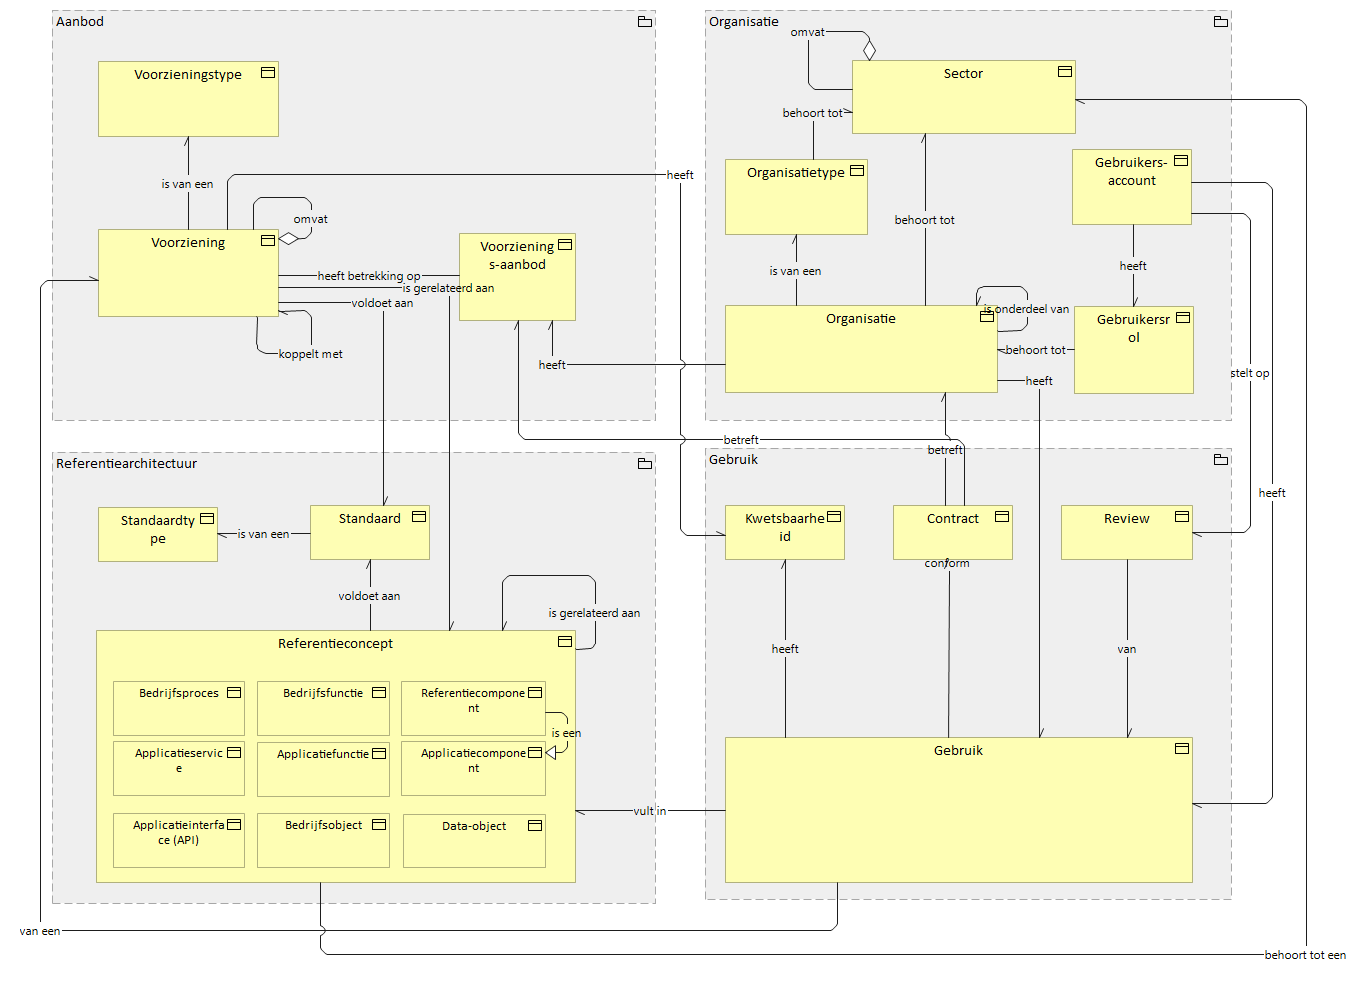
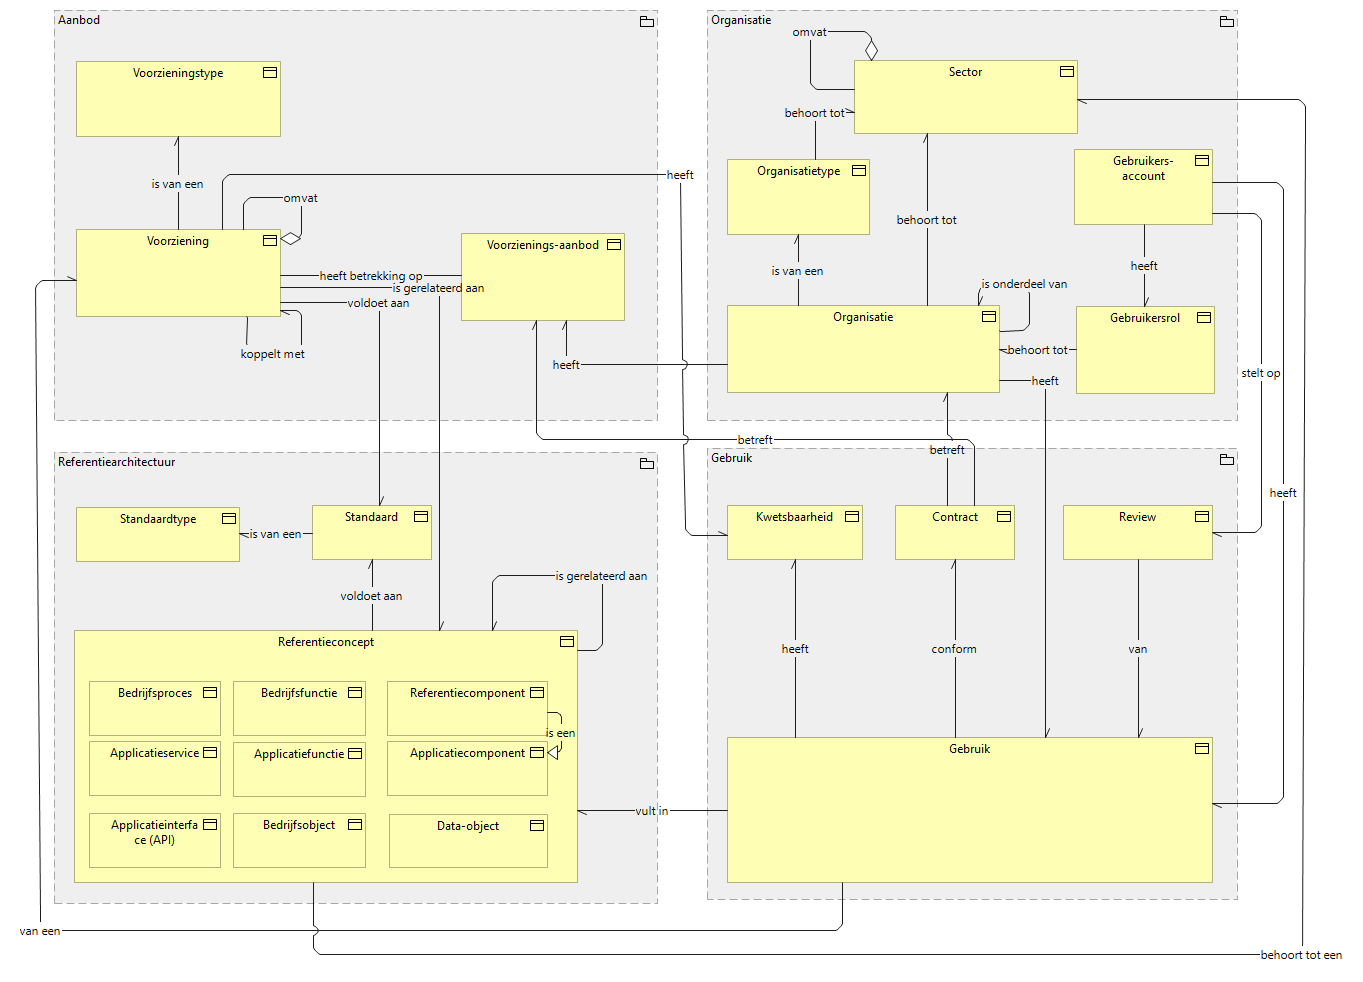
update: layout

diff --git a/docs/id-5af2e6f1-0ffa-403a-b8e5-1bf6153acfe1/views/EAID_F6824A49_9B51_42de_BD40_A47F3CEF7B26.html b/docs/id-5af2e6f1-0ffa-403a-b8e5-1bf6153acfe1/views/EAID_F6824A49_9B51_42de_BD40_A47F3CEF7B26.html
@@ -33,39 +33,39 @@
 		    <!-- If this is a digram model (has children and no bounds) show the image -->
 			   <img class="diagram" src="../images/EAID_F6824A49_9B51_42de_BD40_A47F3CEF7B26.png" alt="Bedrijfsobjectmodel" usemap="#EAID_F6824A49_9B51_42de_BD40_A47F3CEF7B26map"/>
 			   <map name="EAID_F6824A49_9B51_42de_BD40_A47F3CEF7B26map">
-				  				<area shape="rect" coords="98,507,218,562" href="../elements/EAID_2FECBF6E_20B9_406f_808A_571E63311271.html"  target="element">
-				  				<area shape="rect" coords="310,505,430,560" href="../elements/EAID_3DC2EF2E_CFEA_48cf_AE0E_130108252310.html"  target="element">
-				  						<area shape="rect" coords="403,814,546,868" href="../elements/EAID_65C4714E_EF67_4d93_A598_ABC76ABA50C2.html"  target="element">
-				  						<area shape="rect" coords="257,813,390,868" href="../elements/EAID_CBF07C0B_ADE4_4e67_8442_CDC13C116B3F.html"  target="element">
-				  						<area shape="rect" coords="113,813,245,868" href="../elements/EAID_BF5CCB61_C72B_4be3_BC36_387BB7F639BC.html"  target="element">
-				  						<area shape="rect" coords="401,741,546,796" href="../elements/EAID_65276D9B_0F60_4d7b_A286_8C1BD59B2CAA.html"  target="element">
-				  						<area shape="rect" coords="401,681,546,736" href="../elements/EAID_39B41497_A699_4f0b_A93C_B438EEE666C0.html"  target="element">
-				  						<area shape="rect" coords="257,742,390,797" href="../elements/EAID_105B5B24_4959_431c_9870_220F0D012991.html"  target="element">
-				  						<area shape="rect" coords="113,741,245,796" href="../elements/EAID_B40646E8_8B11_47b5_8708_AF7A652FB489.html"  target="element">
-				  						<area shape="rect" coords="257,681,390,736" href="../elements/EAID_54CF8CEC_F343_4603_BAEE_FD185F405EFB.html"  target="element">
-				  						<area shape="rect" coords="113,681,245,736" href="../elements/EAID_9B00F966_A0DF_4484_ADD6_2E9D030DBF38.html"  target="element">
+				  				<area shape="rect" coords="76,507,240,562" href="../elements/EAID_2FECBF6E_20B9_406f_808A_571E63311271.html"  target="element">
+				  				<area shape="rect" coords="312,505,432,560" href="../elements/EAID_3DC2EF2E_CFEA_48cf_AE0E_130108252310.html"  target="element">
+				  						<area shape="rect" coords="389,814,548,868" href="../elements/EAID_65C4714E_EF67_4d93_A598_ABC76ABA50C2.html"  target="element">
+				  						<area shape="rect" coords="233,813,366,868" href="../elements/EAID_CBF07C0B_ADE4_4e67_8442_CDC13C116B3F.html"  target="element">
+				  						<area shape="rect" coords="89,813,221,868" href="../elements/EAID_BF5CCB61_C72B_4be3_BC36_387BB7F639BC.html"  target="element">
+				  						<area shape="rect" coords="387,741,548,796" href="../elements/EAID_65276D9B_0F60_4d7b_A286_8C1BD59B2CAA.html"  target="element">
+				  						<area shape="rect" coords="387,681,548,736" href="../elements/EAID_39B41497_A699_4f0b_A93C_B438EEE666C0.html"  target="element">
+				  						<area shape="rect" coords="233,742,366,797" href="../elements/EAID_105B5B24_4959_431c_9870_220F0D012991.html"  target="element">
+				  						<area shape="rect" coords="89,741,221,796" href="../elements/EAID_B40646E8_8B11_47b5_8708_AF7A652FB489.html"  target="element">
+				  						<area shape="rect" coords="233,681,366,736" href="../elements/EAID_54CF8CEC_F343_4603_BAEE_FD185F405EFB.html"  target="element">
+				  						<area shape="rect" coords="89,681,221,736" href="../elements/EAID_9B00F966_A0DF_4484_ADD6_2E9D030DBF38.html"  target="element">
 
-				  				<area shape="rect" coords="96,630,576,883" href="../elements/EAID_A5D27D46_D29A_4295_A6D2_353ABCFCCD99.html"  target="element">
+				  				<area shape="rect" coords="74,630,578,883" href="../elements/EAID_A5D27D46_D29A_4295_A6D2_353ABCFCCD99.html"  target="element">
 
-				  		<area shape="rect" coords="52,452,656,904" href="../elements/EAID_B8CF3433_5F38_4461_93F2_F218AC03E2E9.html"  target="element">
-				  				<area shape="rect" coords="98,61,279,137" href="../elements/EAID_D7FD6B10_7A3C_45cf_B2AF_F2B88F4B159B.html"  target="element">
-				  				<area shape="rect" coords="98,229,279,317" href="../elements/EAID_FC4F9164_216F_47be_BCA9_B9FE8F46E171.html"  target="element">
-				  				<area shape="rect" coords="459,233,576,321" href="../elements/EAID_A187BE7A_30C8_47a6_9AFE_2B28AD2E7479.html"  target="element">
+				  		<area shape="rect" coords="54,452,658,904" href="../elements/EAID_B8CF3433_5F38_4461_93F2_F218AC03E2E9.html"  target="element">
+				  				<area shape="rect" coords="76,61,281,137" href="../elements/EAID_D7FD6B10_7A3C_45cf_B2AF_F2B88F4B159B.html"  target="element">
+				  				<area shape="rect" coords="76,229,281,317" href="../elements/EAID_FC4F9164_216F_47be_BCA9_B9FE8F46E171.html"  target="element">
+				  				<area shape="rect" coords="461,233,625,321" href="../elements/EAID_A187BE7A_30C8_47a6_9AFE_2B28AD2E7479.html"  target="element">
 
-				  		<area shape="rect" coords="52,10,656,421" href="../elements/EAID_844131A4_873C_43ca_970A_D114457E189D.html"  target="element">
-				  				<area shape="rect" coords="893,505,1013,560" href="../elements/EAID_B5A6C0EA_E370_4124_908D_50916DCA920E.html"  target="element">
-				  				<area shape="rect" coords="725,505,845,560" href="../elements/EAID_07FEAC90_404A_44c5_A410_986C3542A8FE.html"  target="element">
-				  				<area shape="rect" coords="1061,505,1193,560" href="../elements/EAID_E50BE6DF_DB86_42f6_BA6C_252CDF68F51E.html"  target="element">
-				  				<area shape="rect" coords="725,737,1193,883" href="../elements/EAID_8736D758_3952_48e0_892A_9B057E4678DD.html"  target="element">
+				  		<area shape="rect" coords="54,10,658,421" href="../elements/EAID_844131A4_873C_43ca_970A_D114457E189D.html"  target="element">
+				  				<area shape="rect" coords="895,505,1015,560" href="../elements/EAID_B5A6C0EA_E370_4124_908D_50916DCA920E.html"  target="element">
+				  				<area shape="rect" coords="727,505,863,560" href="../elements/EAID_07FEAC90_404A_44c5_A410_986C3542A8FE.html"  target="element">
+				  				<area shape="rect" coords="1063,505,1213,560" href="../elements/EAID_E50BE6DF_DB86_42f6_BA6C_252CDF68F51E.html"  target="element">
+				  				<area shape="rect" coords="727,737,1213,883" href="../elements/EAID_8736D758_3952_48e0_892A_9B057E4678DD.html"  target="element">
 
-				  		<area shape="rect" coords="705,448,1232,900" href="../elements/EAID_A9CFF22D_35E8_4a32_94BB_F5BBF7128D71.html"  target="element">
-				  				<area shape="rect" coords="1074,306,1194,394" href="../elements/EAID_64B92572_9A56_402e_9A12_E200964E7667.html"  target="element">
-				  				<area shape="rect" coords="1072,149,1192,225" href="../elements/EAID_F21ED3FE_5E34_4dd8_9E3B_C88E67723A68.html"  target="element">
-				  				<area shape="rect" coords="725,305,998,393" href="../elements/EAID_2C034536_DA51_4315_AACD_522393EDF5C8.html"  target="element">
-				  				<area shape="rect" coords="725,159,868,235" href="../elements/EAID_16CF75B2_3B1E_4900_9939_C7A37F4A3242.html"  target="element">
-				  				<area shape="rect" coords="852,60,1076,134" href="../elements/EAID_D035DB25_138F_40ef_94E0_0382072705C5.html"  target="element">
+				  		<area shape="rect" coords="707,448,1238,900" href="../elements/EAID_A9CFF22D_35E8_4a32_94BB_F5BBF7128D71.html"  target="element">
+				  				<area shape="rect" coords="1076,306,1215,394" href="../elements/EAID_64B92572_9A56_402e_9A12_E200964E7667.html"  target="element">
+				  				<area shape="rect" coords="1074,149,1213,225" href="../elements/EAID_F21ED3FE_5E34_4dd8_9E3B_C88E67723A68.html"  target="element">
+				  				<area shape="rect" coords="727,305,1000,393" href="../elements/EAID_2C034536_DA51_4315_AACD_522393EDF5C8.html"  target="element">
+				  				<area shape="rect" coords="727,159,870,235" href="../elements/EAID_16CF75B2_3B1E_4900_9939_C7A37F4A3242.html"  target="element">
+				  				<area shape="rect" coords="854,60,1078,134" href="../elements/EAID_D035DB25_138F_40ef_94E0_0382072705C5.html"  target="element">
 
-				  		<area shape="rect" coords="705,10,1232,421" href="../elements/EAID_EBF36000_91EF_4133_BF9A_F10D4A3D8793.html"  target="element">
+				  		<area shape="rect" coords="707,10,1238,421" href="../elements/EAID_EBF36000_91EF_4133_BF9A_F10D4A3D8793.html"  target="element">
 
 			   </map>
 
